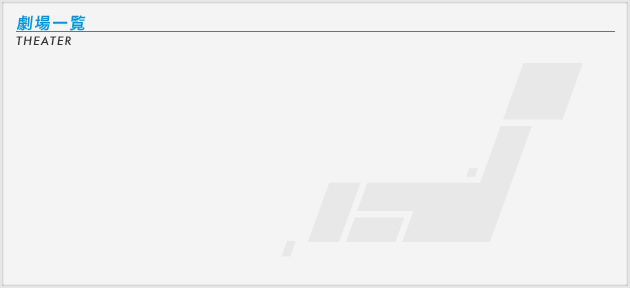
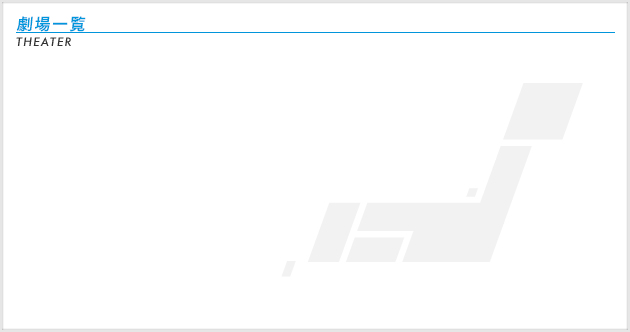
SSKTS-52 [鹿児島追加]HTML調整依頼 PCサイトの調整（サイトトップ、劇場一覧、姶良トップ）

Changed region(s): [[0.0, 0.0312, 0.9952, 0.1562]]

diff --git a/css/base.css b/css/base.css
@@ -234,7 +234,7 @@ a:hover{
 .whiteCanvas.aprilArea{
 	text-align:center;
 	margin:0 0 30px;
-	
+
 	}
 .aprilAreaTxt{
 	color:#505050;
@@ -244,12 +244,12 @@ a:hover{
 	text-align:center;
 	width:277px;
 	margin:10px auto 0;
-	
+
 	}
 
 #aprilArea h2.headlineImg{
 	margin:30px 0 20px;
-	}	
+	}
 
 /* container */
 #container{
@@ -324,7 +324,7 @@ a:hover{
 #container #contents #mainColumn .leftColumn .theaterArea{
 	background:url("../images/common/bg_theaterList.jpg") no-repeat;
 	width:630px;
-	height:288px;
+	height:332px;
 }
 
 #container #contents #mainColumn .leftColumn .theaterArea .theaterLinkBox{
@@ -1220,7 +1220,7 @@ a:hover{
 #container #contents #mainColumn .rightColumn .theaterListArea{
 	background:url("../images/common/bg_miniTheater.jpg") no-repeat left;
 	width:258px;
-	height:284px;
+	height:333px;
 	margin:0 auto 20px;
 }
 

diff --git a/theater/index.php b/theater/index.php
@@ -157,6 +157,10 @@ include("../lib/require.php");
 											<p class="theaterName"><img src="../images/common/btn_arrow.gif"><a href="./aira" >シネマサンシャイン姶良</a></p>
 											<p class="theaterPracce">鹿児島県</p>
 											<p class="theaterService">
+                                                <a class="link" href="../4dx" rel="4dx" alt="4dx" ><img src="../images/common/btn_4dx.gif"></a>
+                                                <a class="link" href="../imax" rel="imax" alt="imax" ><img src="../images/common/btn_imax.gif"></a>
+                                                <a class="link" href="#" rel="facebook" alt="facebook" target="_blank"><img src="../images/common/btn_facebook.gif"></a>
+												<a href="#" rel="twitter" alt="twitter" target="_blank"><img src="../images/common/btn_twitter.gif"></a>
 											</p>
 										</li>
                                     </ul>

diff --git a/lib/create.php b/lib/create.php
@@ -712,7 +712,7 @@ if($arr["side_flag"] == 0){
 	$html .= "</ul>";
 	$html .= "</div>";
     $html .= "<div class='Box clearfix'>";
-	$html .= "<div class='kind'><p><img src='$define[Images_URL]common/theater_chugoku_shikoku.gif' alt='中国・四国'></p></div>"; // TODO:九州
+	$html .= "<div class='kind'><p><img src='$define[Images_URL]common/theater_kyushu.gif' alt='九州'></p></div>";
 	$html .= "<ul>";
 	$html .= "<li><a href='$define[Theater_URL]aira/'>姶良</a></li>";
 	$html .= "</ul>";

diff --git a/index.php b/index.php
@@ -257,7 +257,7 @@ if($val != $data){
 									</div>
 
                                   <div class="Box clearfix">
-										<div class="kind"><p><img src="./images/common/theater_chugoku_shikoku.gif" alt="中国・四国"></p></div>
+										<div class="kind"><p><img src="./images/common/theater_kyushu.gif" alt="九州"></p></div>
 										<ul>
 											<li><a href="./theater/aira/">シネマサンシャイン姶良</a></li>
 										</ul>
